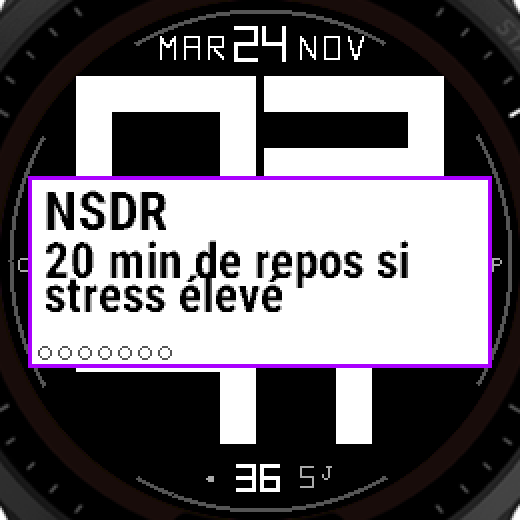
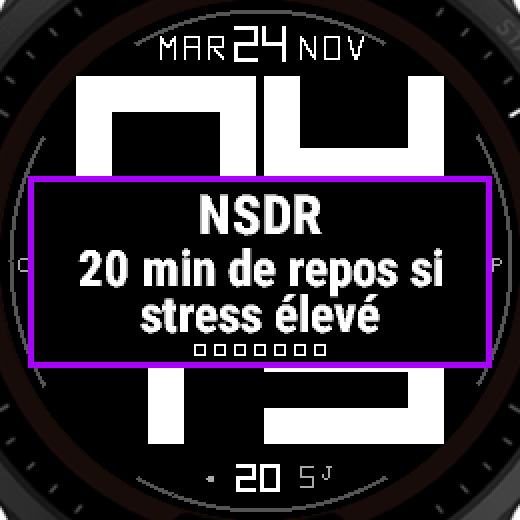
style(watchface): popup noir et blanc, bordure 3 px, centrage et carres
Fond noir et texte blanc, titre/message/barre centres horizontalement et verticalement via TEXT_JUSTIFY_CENTER|VCENTER. Bordure pleine de 3 px, interligne porte a 23 px CIQ, 7 carres 6 px (vide = contour blanc, fait = remplissage de categorie). 12 captures et planche de synthese regenerees et relues.

diff --git a/README.md b/README.md
@@ -136,9 +136,15 @@ Mesures et arbitrages : `docs/messages-v2.md`, `docs/rag-messages.md`,
   confirmés sur `fr955` (`accent-test.png`).
 - **Hiérarchie** (U03/U33) : titre `FONT_SMALL`, message `FONT_TINY`, contexte
   affiché seulement si le message tient sur une ligne. Échelle fermée à 2 niveaux.
-- **Rectangle** (U79) : 232×96 à y=88, bordure colorée par catégorie (U19/U41) :
-  orange = lumière, bleu = marche/pas, violet = stimulants/soleil/NSDR/écrans/calme.
-  Le titre texte reste porteur du sens si la couleur n'est pas rendue.
+- **Rectangle** (U79) : 232×96 à y=88, **fond noir et texte blanc**. Bordure
+  pleine de 3 px colorée par catégorie (U19/U41) : orange = lumière,
+  bleu = marche/pas, violet = stimulants/soleil/NSDR/écrans/calme. Le titre
+  texte reste porteur du sens si la couleur n'est pas rendue.
+- **Centrage** : titre, deux lignes de message et barre d'habitude sont centrés
+  horizontalement (`TEXT_JUSTIFY_CENTER`) et verticalement
+  (`TEXT_JUSTIFY_VCENTER`). Interligne porté à 23 px CIQ.
+- **Habitude (forme)** : 7 carrés de 6 px, vides (contour blanc) si non fait,
+  pleins (couleur de catégorie) si fait.
 - **Durée** (U62) : 25 s, vérifiée dans `onPartialUpdate`.
 - **Wrap** (U73) : `wrapText()` démarre avec un tableau vide. Une entrée `""`
   initiale masquait la première ligne et tronquait tous les messages ; la

diff --git a/docs/screens/README.md b/docs/screens/README.md
@@ -7,8 +7,10 @@ façon fiable). Deux recadrages par variante :
 - `*-watch.png` — cadran complet, 520 × 520 px ;
 - `*-popup.png` — rectangle seul, 466 × 194 px (232 × 96 px CIQ × 2).
 
-Chaque image a été relue : titre en Title Case, message complet sur deux
-lignes, accents `é è °`, bordure par catégorie, barre de 7 points dégagée.
+Rendu final : fond noir, texte blanc centré horizontalement et verticalement,
+bordure pleine de 3 px colorée par catégorie, interligne de 23 px CIQ, barre de
+7 carrés (vides si non fait, pleins si fait). Chaque image a été relue : titre
+en Title Case, message complet sur deux lignes, accents `é è °`.
 
 ## Les huit messages
 
